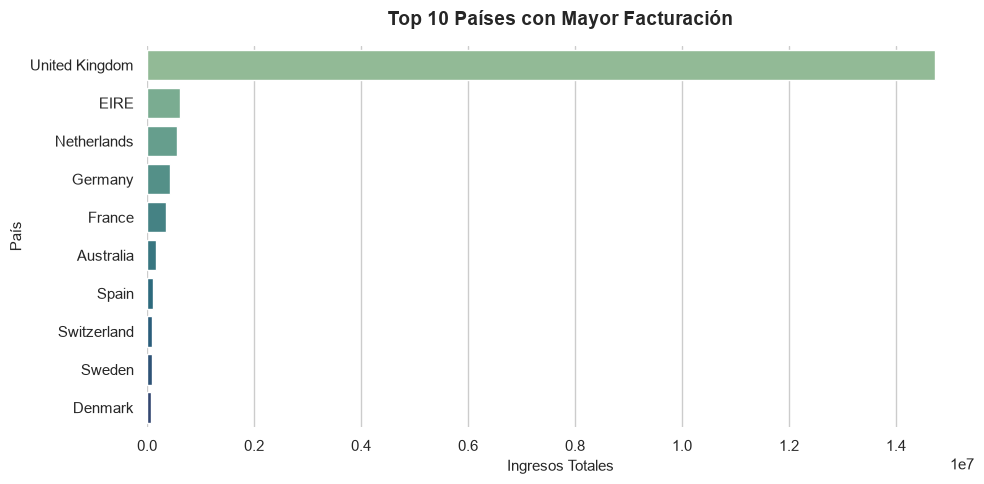
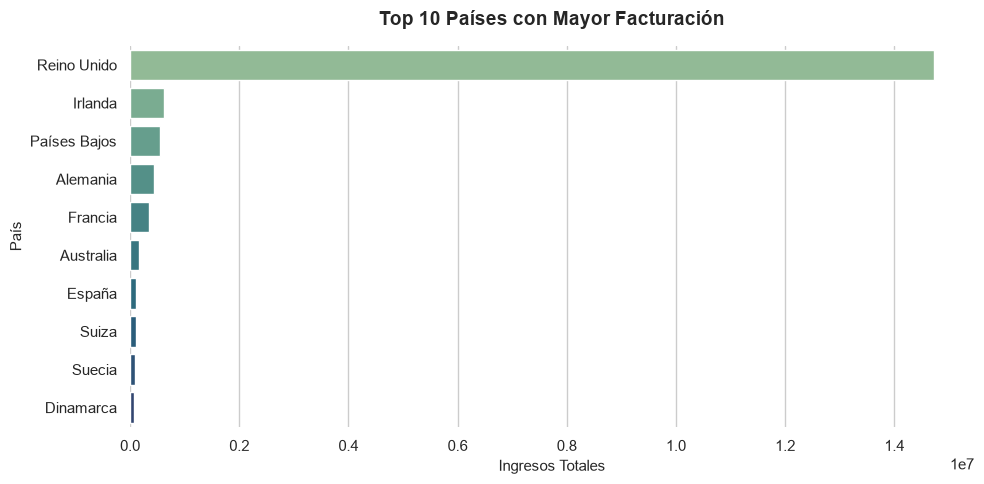
Add files via upload

diff --git a/README.md b/README.md
@@ -26,49 +26,30 @@ Estas son las hipótesis que guiaron el análisis, planteadas antes de explorar 
 
 ### Hipótesis 1 — Estacionalidad de ingresos
 > *"Los ingresos no se distribuyen uniformemente a lo largo del año. Se espera un pico pronunciado en el último trimestre (octubre–diciembre) asociado a la temporada navideña en el mercado británico."*
-
-**Análisis que la responde:** `02_eda.ipynb` → Evolución mensual de ingresos totales  
-**Cómo leerlo:** Si la línea temporal muestra un crecimiento sostenido que culmina en noviembre o diciembre, la hipótesis se confirma. Un comportamiento plano la refutaría.
-
 ---
 
 ### Hipótesis 2 — Concentración geográfica de la facturación
 > *"Aunque la tienda opera a nivel internacional, el grueso de los ingresos proviene del Reino Unido. Los países europeos cercanos (Alemania, Francia, Países Bajos) representan el segundo grupo más importante."*
-
-**Análisis que la responde:** `02_eda.ipynb` → Top 10 países con mayor facturación  
-**Cómo leerlo:** Si el gráfico de barras muestra al UK muy por encima del resto, la hipótesis se confirma. Si otros países tienen participación comparable, indicaría una base internacional más diversificada de lo esperado.
 
 ---
 
 ### Hipótesis 3 — Productos de alto ingreso vs. alto volumen
 > *"Los productos que más ingresos generan no son necesariamente los más vendidos en cantidad. Existen artículos de alto valor unitario que dominan la facturación con menor volumen de unidades."*
 
-**Análisis que la responde:** `02_eda.ipynb` → Top 10 productos por ingresos totales  
-**Cómo leerlo:** Comparar el ranking de ingresos con el de cantidad vendida. Si los productos no coinciden entre listas, la hipótesis se confirma y revela una oportunidad de pricing strategy.
-
 ---
 
 ### Hipótesis 4 — Patrón semanal de compras
 > *"Las compras se concentran en días hábiles (lunes a jueves), con una caída marcada el fin de semana. Esto sugiere que una porción significativa de los compradores son empresas (B2B), no consumidores finales."*
-
-**Análisis que la responde:** `02_eda.ipynb` → Distribución de ventas por día de la semana  
-**Cómo leerlo:** Si el gráfico muestra barras altas de lunes a jueves y baja actividad en sábado/domingo, la hipótesis B2B se sostiene y tiene implicancias directas para la estrategia de campañas de email.
 
 ---
 
 ### Hipótesis 5 — Segmentación desigual de clientes (Principio de Pareto)
 > *"Una minoría de clientes genera la mayoría de los ingresos. Se espera que los segmentos 'Campeones' y 'Clientes leales' concentren más del 50% de la facturación total, a pesar de ser una fracción pequeña de la base de clientes."*
 
-**Análisis que la responde:** `03_rfm_segmentacion.ipynb` → Gasto promedio por segmento RFM  
-**Cómo leerlo:** Comparar el gasto promedio del segmento Campeones contra Hibernando. Una diferencia de 5x o más confirma la desigualdad y justifica estrategias de retención diferenciadas.
-
 ---
 
 ### Hipótesis 6 — Clientes recientes pero poco frecuentes como oportunidad
 > *"Existe un grupo relevante de clientes con alta recencia (compraron hace poco) pero baja frecuencia (pocas compras). Son 'Nuevos' o 'Prometedores' y representan la mayor oportunidad de crecimiento con campañas de activación temprana."*
-
-**Análisis que la responde:** `03_rfm_segmentacion.ipynb` → Cantidad de clientes por segmento  
-**Cómo leerlo:** Si los segmentos "Nuevos clientes" y "Prometedores" tienen un volumen alto de clientes, hay una oportunidad concreta de convertirlos en compradores recurrentes con el onboarding adecuado.
 
 ---
 
@@ -76,11 +57,11 @@ Estas son las hipótesis que guiaron el análisis, planteadas antes de explorar 
 
 > ⚠️ *Completá esta sección con los números reales después de ejecutar los notebooks.*
 
-- **Hipótesis 1 [confirmada]:** *"Se puede ver una tendencia de subida en el mes 8 y luego un pico en los meses siguientes directamente ligado a la temporada navideña"*
+- **Hipótesis 1 [confirmada/refutada]:** *(ej. "Los ingresos de noviembre 2011 superaron en un X% al promedio mensual del año")*
 ![Evolución Mensual de Ingresos](images/evo_mensual_ingresos_totales.png)
-- **Hipótesis 2 [confirmada]:** *"UK concentra el mayo porcentaje de la facturación total"*
+- **Hipótesis 2 [confirmada/refutada]:** *(ej. "UK concentra el X% de la facturación total; el segundo país no supera el X%")*
 ![Top 10 de paises con mayor recaudación](images/top10_paises_mayor_recaudacion.png)
-- **Hipótesis 3 [confirmada]:**
+- **Hipótesis 3 [confirmada/refutada]:** *(ej. "Solo 3 de los 10 productos con mayor ingreso coinciden con el top 10 por cantidad")*
 ![Top 10 productos de mayor ingreso](images/top10_productos_mayor_ingreso.png)
 - **Hipótesis 4 [confirmada/refutada]:** *(ej. "El jueves concentra el X% de las ventas semanales; el domingo representa menos del X%")*
 ![Distribución de ventas diarias](images/distribucion_ventas_diarios.png)